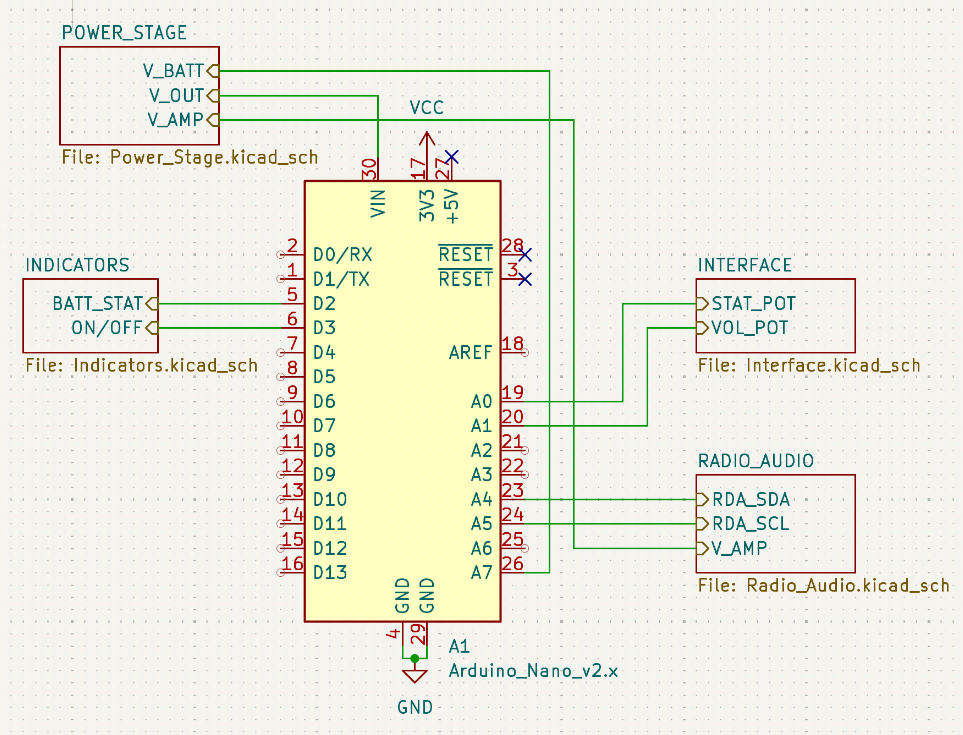
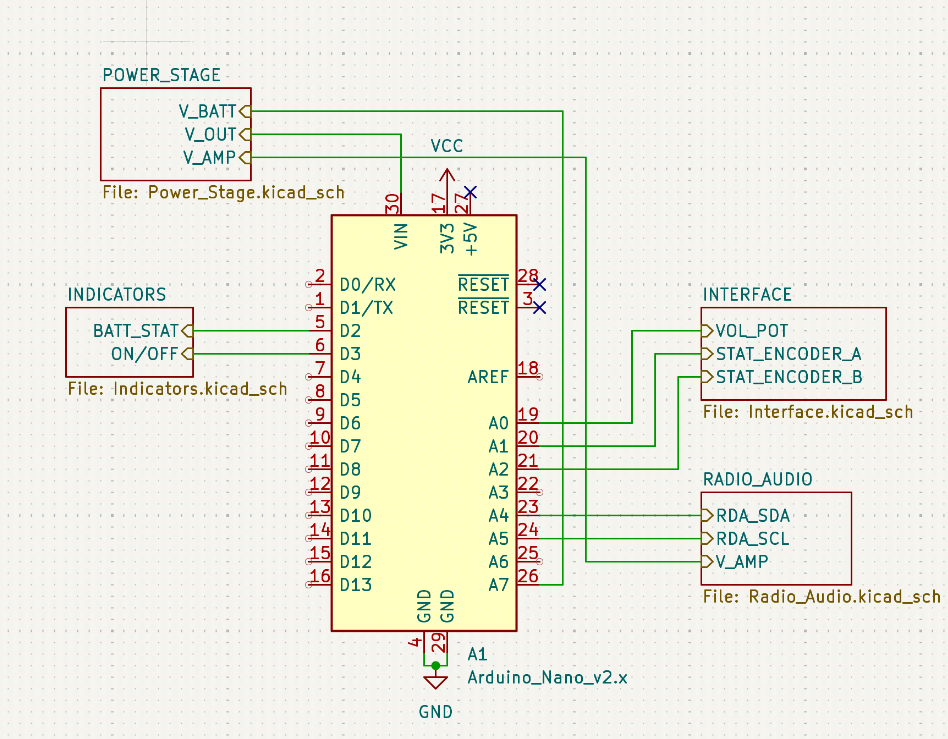
updated readme for encoder

Changed region(s): [[0.0, 0.0299, 1.0, 0.9878]]

diff --git a/README.md b/README.md
@@ -12,7 +12,7 @@ This is the power stage, it operates on 3xAA which provides 4.5V. The battery vo
 This is the radio and audio stage, to streamline development, the RDA5807M module is used to make FM radio as easy as possible. The audio jack is a switching TRS jack, meaning that if no headphones are plugged in, the audio signal will go the speakers instead of the headphones. The amplifier is a PAM8403 evaluation board from DFRobot.
 
 ![interface](./IMAGES/interface.png)
-Uses potentiometers as a voltage divider to adjust values.
+Uses potentiometers as a voltage divider to adjust volume, and uses a rotary quadrature encoder to adjust the station by tracking the number of pulses and their direction.
 
 ![indicators](./IMAGES/indicators.png)
 Some indicator LEDs
